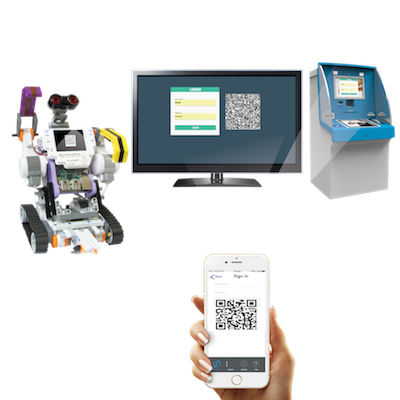
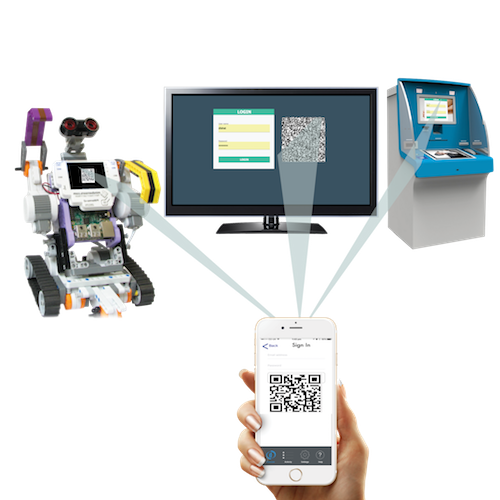
redesigned the website

diff --git a/src/configs/textValues.js b/src/configs/textValues.js
@@ -29,26 +29,38 @@ const textValues={
      copyrightinfo:"Copyright © 2017-2022 by Iterative Solution Limited",
 
      first:{
-        title:"Universal Device Input",
+        title:"A Universal Device Input Mobile App",
         description:[
-          "The Global Input App is a universal device input mobile app ready for you to use for all your service applications and devices. This allows you to have a single mobile app to operate on all services and devices.",
+          "For applications on Smart TV, Computers and other devices.",
+          "For Signing in on websites via mobile.",
+          "For Sign in to business applications:JIRA, Confluence, gitlab, github...",
+          "Operating on IoT devices",
+          "For getting access to company facilities"
+        ]
+     },
+     second:{
+        title:"End-to-end Encryption",
+        description:[
+          "Encryption key exchange via QR code only: only in the close distance.",
+           "Communication with end-to-end encryption: not possible to intercept communication.",
+           "Use different strong encryption key for each session: maximum security possible.",
 
-           "If you are already running the Global Input App on your mobile and are visiting this website with your computer, you can either click on the example scenarios listed below and try to operate on them with your mobile, or you can go straight on [chrome extension](https://github.com/global-input/chrome-extension) and [word press changes](https://github.com/global-input/wordpress-login) to enable the Global Input Software on your website or your browser to enjoy how quickly and safely sign into your business applications.",
         ]
      },
      content1:[
-       "The Global Input App allows users to connect their mobile to the service applications running on computers, Smart TVs, Set Top Boxes or IoT devices to operate on them just by pointing the mobile camera to the QR codes",
-        "Before going further, please install the Global Input App on your mobile from [Apple App Store](https://itunes.apple.com/us/app/global-input-app/id1269541616?mt=8&ign-mpt=uo%3D4) or [Google Play Store](https://play.google.com/store/apps/details?id=uk.co.globalinput&hl=en_GB) and try it out",
-        "If you are already running the Global Input App on your mobile and are visiting this website with your computer, you can either click on the example scenarios listed below and try to operate on them with your mobile, or you can go straight on [chrome extension](https://github.com/global-input/chrome-extension) and [word press changes](https://github.com/global-input/wordpress-login) to enable the Global Input Software on your website or your browser to enjoy how quickly and safely sign into your business applications.",
 
-        "If you are javascript developer, you may like to play around with the code yourself with [the React JS example](https://jsfiddle.net/dilshat/26jh68wv/) and [the plain JavaScript example](https://jsfiddle.net/dilshat/c5fvyxqa/) or you may have a look at the documentation and code samples in the github repositories listed below",
+        "Install the Global Input App on your mobile from [Apple App Store](https://itunes.apple.com/us/app/global-input-app/id1269541616?mt=8&ign-mpt=uo%3D4) or [Google Play Store](https://play.google.com/store/apps/details?id=uk.co.globalinput&hl=en_GB).",
+        "You may be already running the Global Input App on your mobile app and have tried the app by scanning the QR code on the top of the page. You may try the app on the QR Code Printing Service by clicking on the menu on the top of this page. The QR Code Printing Service is a Single Page Application with any back-end services. ",
+        "then you can download the [chrome extension](https://github.com/global-input/chrome-extension) so you can use it on the various business application such as Confluence, JIRA, GitLab, GitHub, LucidChart, etc",
+
+        "If you have a word press website, you can have a look at the [this github repository](https://github.com/global-input/wordpress-login) to enable the Global Input Software on your website. As the live example, you can visit [here](https://iterativesolution.co.uk/wp-admin/)",
+
+        "If you are javascript developer, you can try online [the React JS example](https://jsfiddle.net/dilshat/26jh68wv/) and [the plain JavaScript example](https://jsfiddle.net/dilshat/c5fvyxqa/) or you may have a look at the documentation and code samples in the github repositories listed below",
         "[https://github.com/global-input/global-input-react](https://github.com/global-input/global-input-react)",
         "[https://github.com/global-input/global-input-message](https://github.com/global-input/global-input-message)",
-        "We are using our Global Input App to [sign into our websites](https://iterativesolution.co.uk/wp-admin/), which is powered by Wordpress.  We are also using it everyday on our business applications such as Jira, Confluece, GitLab, Github, lucidchart etc.  We are also using it on the media software products that we have developed ourselves. ",
-        "We can login very quickly just by pointing the mobile camera to the QR code regardless of how long and how complex the password is! And none of us have to remember the long passwords anymore. We don't have such hesitation or embarrassment when we need to sign into the services via the big screen devices while everybody else in the room is watching. And now you can do the same. In your workplace, you may often have to work on a shared computer and you need to login into many applications and each have different passwords. For security purposes, each service application should have different and long password, and you need to sign in very quickly. All can be now solved with the Global Input mobile app solution.",
-        "You may think what will happen if you lose your mobile. You can print out passwords on papers and only your mobile can decrypt it and display it on your mobile screen! And then you can print out your master encryption key and lock it in your safebox. When you have a new phone, install the Global Input App on your new phone and point the mobile camera to the master QR code and your phone will recognize it automatically and import it into your phone. This will pair your new phone with your old phone!",
-        "If you install [this Chrome extension](https://github.com/global-input/chrome-extension), you will be able to use the Global Input App on the Jira, Confluence, GitLab etc business applications.",
-        "The following examples are written using the React.js framework. You can also have look at [here](https://github.com/global-input/global-input-message) if your application is not written in ReactJS. We are in the process of preparing the libraries for other programming languages as well, so please watch this space.",
+        "After this, you can sign it on business applications such as Jira, Confluece, GitLab, Github, lucidchart etc.  Our [media software products](https://github.com/boxmediapp) that we have developed are also comes with Global Input enabled. ",
+        "You can login very quickly just by pointing the mobile camera to the QR code regardless of how long and how complex the password is! You don't have to remember the long passwords anymore. You don't have such hesitation or embarrassment when you need to sign into the services via the big screen devices while everybody else in the room is watching. In workplace, using shared computer are common place, using complex and different password for each applications and devices greatly increases security. Global Input App will types fill in the same automatically when you scan the QR code.",
+        "You can even print out passwords on papers and only your mobile can decrypt it via its camera and display it on your mobile screen! You can print out your master encryption key and lock it in your safebox. When you have a new phone, install the Global Input App on your new phone and point the mobile camera to the master QR code and your phone will recognize it automatically and import it into your phone. This will pair your new phone with your old phone!",
       ],
 
   },
@@ -97,6 +109,11 @@ const textValues={
         content1:[
           "After launching the Global Input app on your phone, point the camera to the QR code displayed on the top and the app will connect to the application. When this happens, the QR Code will be highlighted indicating that a user is connected to the service.",
           "The QR Code Printing Service enables you to print a QR code via your phone. Using this service you can print out your passwords that only your phone can decrypt, you can backup your data on paper that you can use mobile phone to import back them in."
+        ],
+        content2:[
+          "This example demonstrate that a website or service applicatios that are providing service can transfer any input form or control to the Global Input App so that users can operate on the mobile.",
+          "The source code of this website is available on the following github repository:",
+          "[https://github.com/global-input/global-input-web](https://github.com/global-input/global-input-web)"
         ]
   },
   pairing:{

diff --git a/src/home/index.js b/src/home/index.js
@@ -89,7 +89,15 @@ export  class Home extends Component {
             <div className="col-sm-6"> <img src={images.globalInputBanner}/></div>
           </div>
 
+          <div className="row" >
+                <div className="col-sm-6"> <img src={images.endToEnd}/></div>
+            <div className="col-sm-6">
 
+                <DisplayBlockText title={textValues.home.second.title} content={textValues.home.second.description}/>
+
+            </div>
+
+        </div>
 
 
           <div className="homeContainer">

diff --git a/src/qr-printing/index.js b/src/qr-printing/index.js
@@ -161,6 +161,7 @@ export  class QRPrinting extends Component {
                </div>
                <DisplayIntroduction/>
 
+
           </div>
 
 
@@ -172,7 +173,8 @@ export  class QRPrinting extends Component {
                 </div>
             </div>
 
-<DisplayBlockText content={textValues.home.content1}/>
+<DisplayBlockText content={textValues.qrcode.content2}/>
+
 
 
           </div>

diff --git a/src/configs/images.js b/src/configs/images.js
@@ -9,5 +9,7 @@ const images={
   arrowDownToApply:require("../images/arrow-down-to-apply.png"),
   enableGlobalInput:require("../images/global-apply.png"),
   globalInputBanner:require("../images/global-input-banner.png"),
+  endToEnd:require("../images/end-to-end.png"),
+
 }
 export default images;

diff --git a/src/components/styles/index.js b/src/components/styles/index.js
@@ -4,7 +4,7 @@ export const styles={
     fontFamily: "'Roboto', sans-serif",
     fontSize: 20,
     marginLeft:50,
-    marginTop:20
+    marginTop:100
   },
   blockTitle:{
     fontFamily: "'Roboto', sans-serif",
